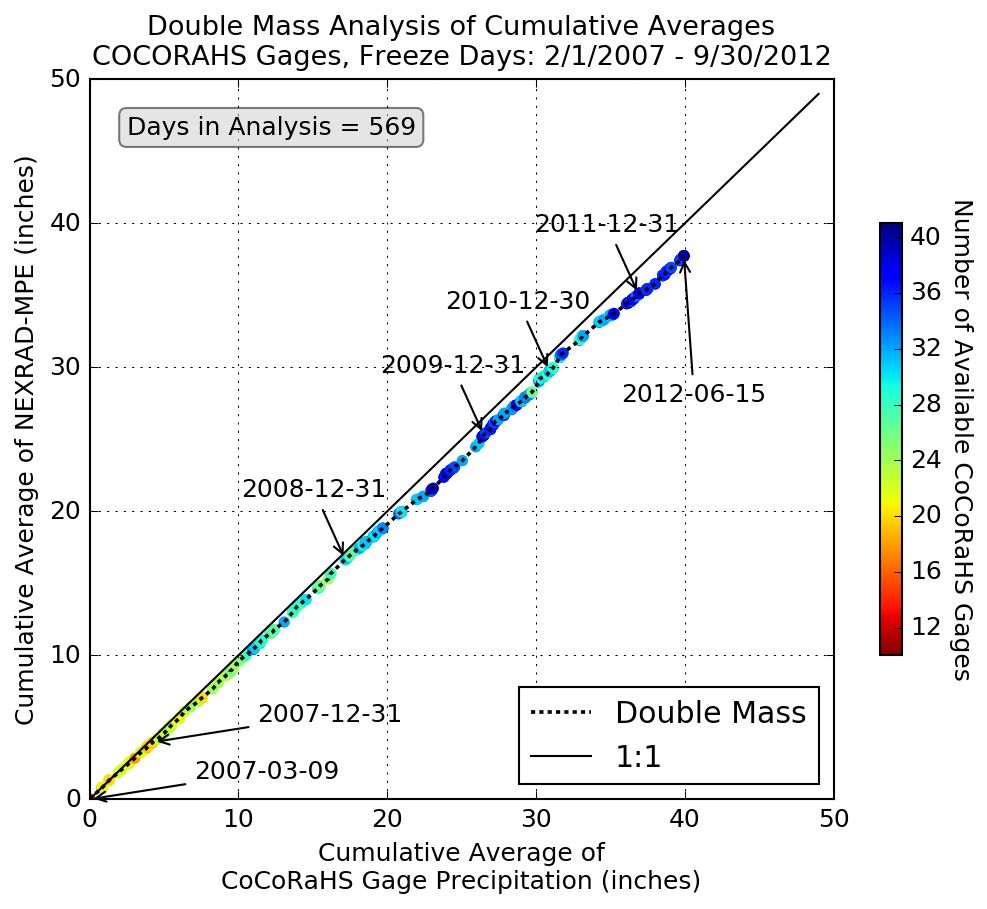
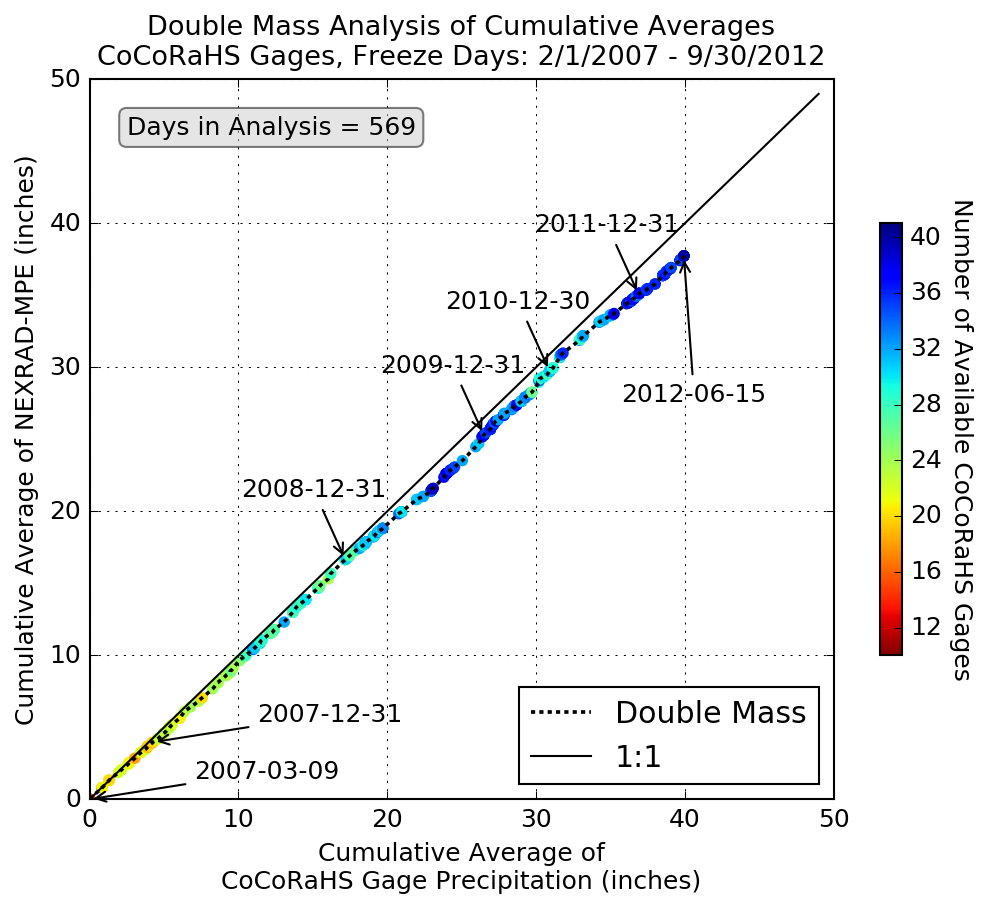
title fixes to dmass plots; status files output for all

Changed region(s): [[0.0912, 0.0308, 0.6687, 0.0924], [0.6991, 0.0308, 0.8511, 0.0924]]

diff --git a/plot_scripts/dmass_freeze_thaw.py b/plot_scripts/dmass_freeze_thaw.py
@@ -15,9 +15,9 @@ import module_parse_txt
 
 os.chdir("..")
 maindir = os.getcwd() + os.sep
-criteria = 'Freeze' # choices: 'Freeze', 'Thaw'
+criteria = 'Thaw' # choices: 'Freeze', 'Thaw'
 netx = 'usgs' # choices: 'usgs', 'cocorahs'
-nety = 'nexrad' # choices: 'nexrad', 'cocorahs'
+nety = 'cocorahs' # choices: 'nexrad', 'cocorahs'
 
 ###### NEXRAD and USGS gages are adjusted in current HSPF application #######
 nexadj = gadj = 1.14 # 1.14
@@ -25,7 +25,7 @@ if netx == 'cocorahs': # don't adjust cocorahs data
     gadj = 1.0
 if netx == 'usgs' and nety == 'cocorahs': # don't apply adj to nety when compring usgs to cocorahs
     nexadj = 1.0
-##### Snow Correction Factor (usgs gages only) #####
+##### Snow Correction Factor (usgs gages only) ##### set to 1.0 to ignore
 if criteria == 'Freeze' and netx == 'usgs':
     scf = 1.0
 else:
@@ -44,12 +44,20 @@ print 'Time Period: ' + str(start) + ' - ' + str(finish)
 ################## Parse Argonne temperature file ################################    
 # Loop through the Agronne temperature freeze criteria file previously generated
 # Create a dictionary of dates for both the freeze and thaw criteria
+if gadj != 1.0:
+    gadj_label = '_adj_' + str(gadj)
+else:
+    gadj_label = ''
+if nexadj != 1.0:
+    nexadj_label = '_adj_' + str(nexadj)
+else:
+    nexadj_label = ''
 if nety == 'nexrad':
     fstatus = open(maindir + '\\figures\\final\\' + criteria.lower() + '_days\\' + netx 
-+ '_gages' + '\\status_dmass_' + criteria + '_' + netx + '_' + str(ystart)[-2:] + '_' + str(yend)[-2:] + '.txt', 'w')
++ '_gages' + '\\status_dmass_' + criteria + '_' + netx + '_' + str(ystart)[-2:] + '_' + str(yend)[-2:] + nexadj_label + '.txt', 'w')
 else:
     fstatus = open(maindir + '\\figures\\final\\' + criteria.lower() + '_days\\' + netx 
-+ '_vs_' + nety + '\\status_dmass_' + criteria + '_' + str(ystart)[-2:] + '_' + str(yend)[-2:] + '.txt', 'w')
++ '_vs_' + nety + '\\status_dmass_' + criteria + '_' + str(ystart)[-2:] + '_' + str(yend)[-2:] + gadj_label + '.txt', 'w')
 
 
 print 'Examing:' + criteria + ' days...'
@@ -194,12 +202,18 @@ else:
     ax1.set_xlabel('Cumulative Average of\n' + netx_name + ' Gage Precipitation (inches)')
 ######### Add Title ###########
 title_text = ''
+namex = netx.upper(); namey = nety.upper()
+if netx == 'cocorahs': # configure for weird CoCoRaHS capitalization in title
+    namex = 'CoCoRaHS'
+if nety == 'cocorahs':
+    namey = 'CoCoRaHS'
+    
 if nety == 'nexrad':
-    title_text+=(netx.upper() + ' Gages,')
+    title_text+=(namex + ' Gages,')
 else:
     if netx == 'usgs' and criteria == 'Freeze':
         title_text+= 'Heated '
-    title_text+=(netx.upper() + ' and ' + nety.upper() + ' Gages\n')
+    title_text+=(namex + ' and ' + namey + ' Gages\n')
 
 if criteria == 'Thaw':
     plt.title('Double Mass Analysis of Cumulative Averages\n' + title_text +' Non-freezing Days: ' + str(start.month)+'/'+str(start.day)+'/'+str(start.year) + ' - ' + str(finish.month)+'/'+str(finish.day)+'/'+str(finish.year),fontsize='13',y=1.006) #\n' + str(start)[:10] + ' -- ' + str(finish)[:10]  + ' (' + str(len(in_gage)) + ' days)')
